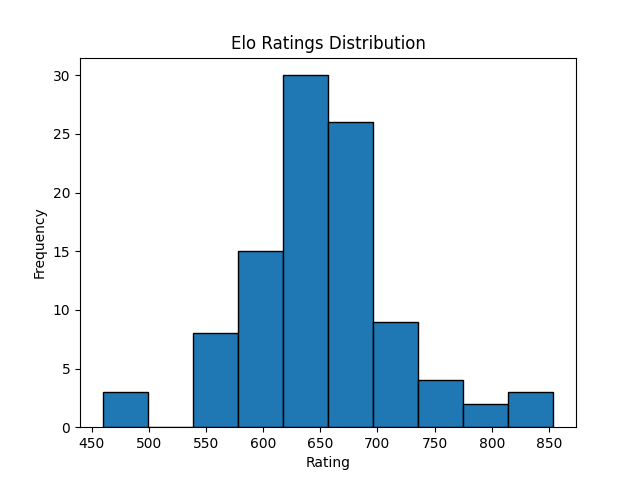
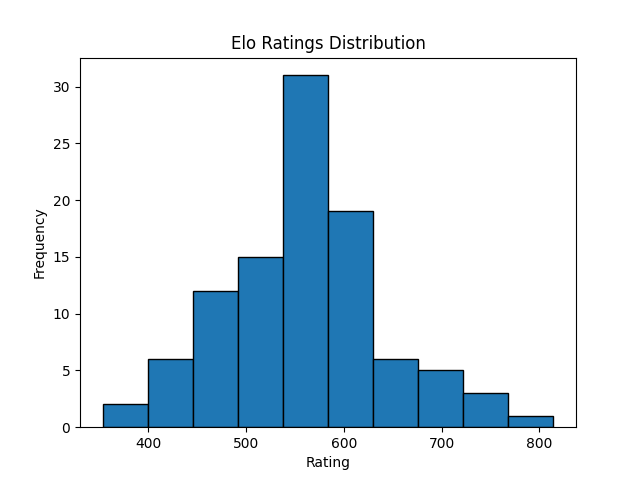
update Readme

diff --git a/main.py b/main.py
@@ -11,23 +11,23 @@ if __name__ == "__main__":
     p = 16   # Players per tournament
     n = 100  # Number of tournaments
     k = 298  # K-factor
-    k_min = 108
-    k_max = 473
-    decay_factor = 0.45
-    initial_score = 651
-    tau = 78.96906361018003
+    k_min = 31
+    k_max = 689
+    decay_factor = 0.42
+    initial_score = 558
+    tau = 180
     k_scaling = "sqrt"
 
     # Optimal
     # Parameters:
-    # k_min: 77.2462689286173
-    # k_max: 239.10325082909344
-    # decay_factor: 0.4616222104959444
-    # initial_score: 458
-    # tau: 134.20290416221096
+    # k_min: 31.394278644353776
+    # k_max: 689.9999590760938
+    # decay_factor: 0.4272370276873543
+    # initial_score: 558
+    # tau: 179.69165663105943
     # Best
     # Metric
-    # Score: 75.4955
+    # Score: 92.6332
 
     # Start timing
     start_time = time.time()

diff --git a/Readme.md b/Readme.md
@@ -15,7 +15,7 @@ The update mechanism compares this expected score with the actual outcome and ad
 
 To calculate Expected score we use following formula:
 
-<img src="https://latex.codecogs.com/svg.image?\bg{white}&space;E_A=\frac{1}{1&plus;e^{\frac{R_B-R_A}{\tau}}}" style="background-color: white;" alt="elo expected score" />
+<img src="https://latex.codecogs.com/svg.image?\bg{white}&space;E_A=\frac{1}{1&plus;e^{\frac{R_B-R_A}{\tau}}}" style="background-color: white;" bgcolor="#ffffff" alt="elo expected score" />
 
 Where:
 - E<sub>A</sub> - Expected score
@@ -25,7 +25,7 @@ Where:
 
 and to update ratings we use following formula
 
-<img src="https://latex.codecogs.com/svg.image?\bg{white}R_A'=R_A&plus;K\cdot\left({S_A}-E_A\right)" style="background-color: white;" alt="elo expected score" />
+<img src="https://latex.codecogs.com/svg.image?\bg{white}R_A'=R_A&plus;K\cdot\left({S_A}-E_A\right)" style="background-color: white;" bgcolor="#ffffff" alt="elo expected score" />
 
 Where:
 - S<sub>A</sub> - is the actual score/result for player A on the interval from 0 to 1
@@ -50,7 +50,7 @@ therefore we have introduced dynamic K that grows towards later rounds. Neverthe
 We use standard elo with adjustable tau and K parameters. We also adjust initial player's rating, since it remains unknown which one would suit this sport the most.
 We adjust to old-recent recent matches balance by introducing traditional for NBA decay factor. This means that over time, preferably once a season, we take all the results and make them approach the mean.
 
-<img src="https://latex.codecogs.com/svg.image?\bg{white}R_i'=R_i&plus;\text{decay\_factor}\cdot(\bar{R}-R_i)" style="background-color: white;" alt="elo expected score" />
+<img src="https://latex.codecogs.com/svg.image?\bg{white}R_i'=R_i&plus;\text{decay\_factor}\cdot(\bar{R}-R_i)" style="background-color: white;" bgcolor="#ffffff" alt="elo expected score" />
 
 - In elo mean stays the same as initial ranking since elo represents a zero-sum ranking system.
 
